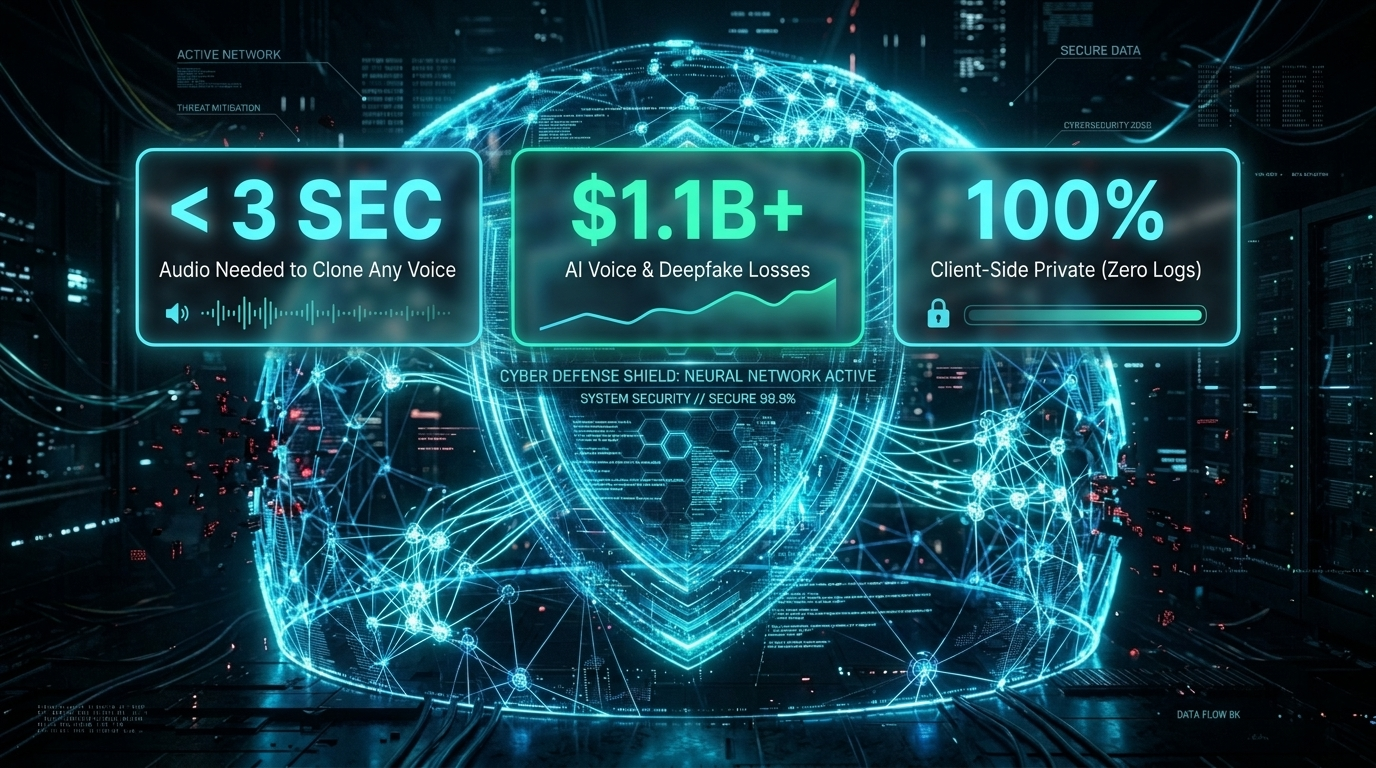
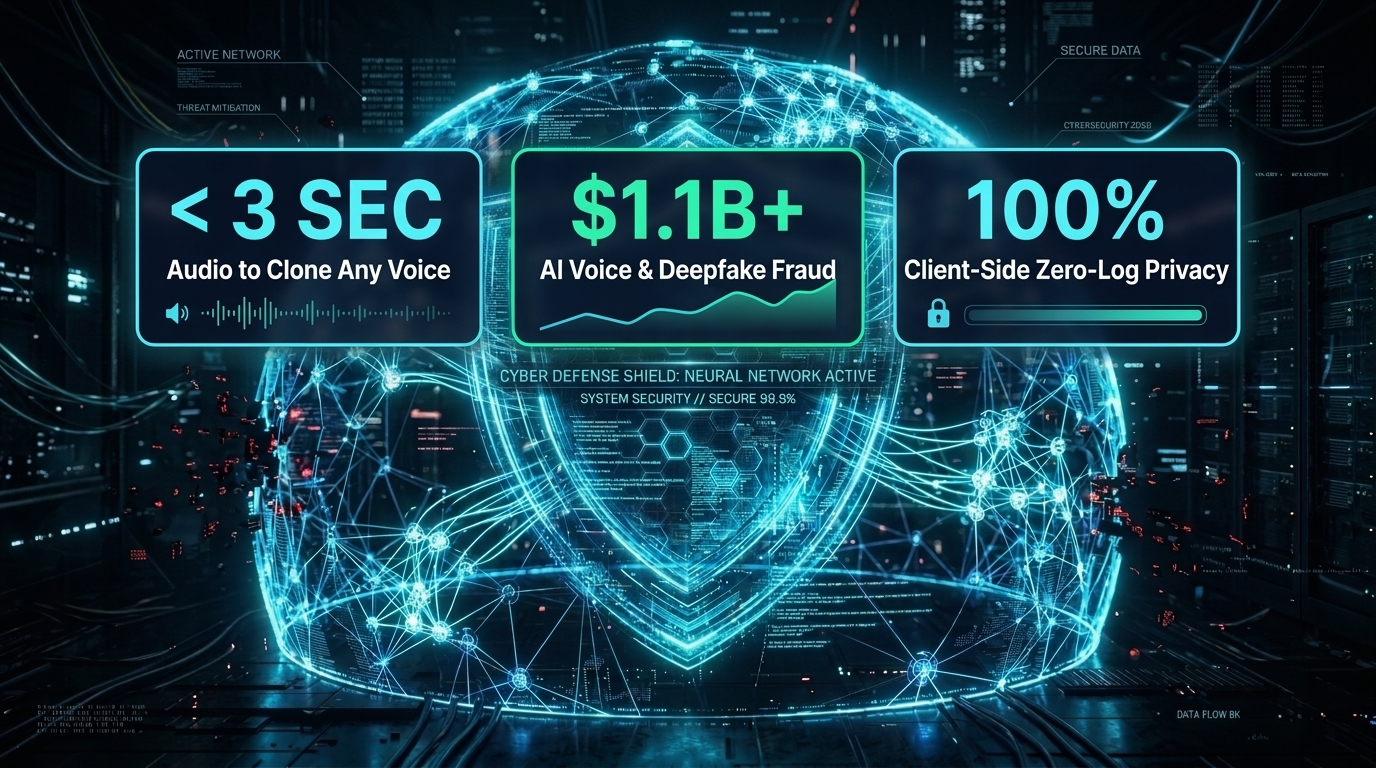
feat(hero): enlarge HUD subtitles for ultra-clear legibility and refine bottom status bar

diff --git a/index.html b/index.html
@@ -94,11 +94,11 @@
   <script async src="https://pagead2.googlesyndication.com/pagead/js/adsbygoogle.js?client=ca-pub-7565560894775775" crossorigin="anonymous"></script>
 
   <!-- Stylesheets -->
-  <link rel="stylesheet" href="css/styles.css?v=20261020-search2">
+  <link rel="stylesheet" href="css/styles.css?v=20261020-hud2">
   <link rel="icon" type="image/jpeg" href="assets/images/logo.jpg">
 
   <!-- Configuration & AdSense Loader -->
-  <script src="config.js?v=20261020-search2" defer></script>
+  <script src="config.js?v=20261020-hud2" defer></script>
 </head>
 <body>
 
@@ -184,7 +184,7 @@
 
         <div class="hero-visual-col">
           <div class="hero-visual-card">
-            <img src="assets/images/hero.jpg?v=20261020-hud" alt="ScamShield AI Live Telemetry HUD: Under 3 Seconds Voice Cloning Defense, $1.1B+ Deepfake Losses Mitigated, 100% Zero-Log Private Architecture" class="hero-img" width="640" height="360" decoding="async">
+            <img src="assets/images/hero.jpg?v=20261020-hud2" alt="ScamShield AI Live Telemetry HUD: Under 3 Seconds Voice Cloning Defense, $1.1B+ Deepfake Losses Mitigated, 100% Zero-Log Private Architecture" class="hero-img" width="640" height="360" decoding="async">
             <div class="hero-visual-overlay">
               <div class="overlay-status">
                 <span class="live-dot"></span>
@@ -608,7 +608,7 @@
   </footer>
 
   <!-- Scripts -->
-  <script src="js/threat-data.js?v=20261020-search2"></script>
-  <script src="js/app.js?v=20261020-search2"></script>
+  <script src="js/threat-data.js?v=20261020-hud2"></script>
+  <script src="js/app.js?v=20261020-hud2"></script>
 </body>
 </html>

diff --git a/css/styles.css b/css/styles.css
@@ -573,8 +573,10 @@ a:hover {
   bottom: 0;
   left: 0;
   right: 0;
-  padding: 1.25rem;
-  background: linear-gradient(180deg, transparent 0%, rgba(7, 11, 20, 0.95) 100%);
+  padding: 0.6rem 1rem;
+  background: rgba(7, 11, 20, 0.88);
+  backdrop-filter: blur(8px);
+  border-top: 1px solid rgba(0, 242, 254, 0.2);
   display: flex;
   align-items: center;
   justify-content: space-between;
@@ -583,10 +585,11 @@ a:hover {
 .overlay-status {
   display: flex;
   align-items: center;
-  gap: 0.5rem;
-  font-size: 0.85rem;
+  gap: 0.45rem;
+  font-size: 0.78rem;
   font-family: var(--font-mono);
   color: var(--color-success);
+  letter-spacing: 0.04em;
 }
 
 .live-dot {

diff --git a/guide-pig-butchering.html b/guide-pig-butchering.html
@@ -51,9 +51,9 @@
   <!-- Google AdSense Verification & Auto-Ads Script -->
   <script async src="https://pagead2.googlesyndication.com/pagead/js/adsbygoogle.js?client=ca-pub-7565560894775775" crossorigin="anonymous"></script>
   
-  <link rel="stylesheet" href="css/styles.css?v=20261020-search2">
+  <link rel="stylesheet" href="css/styles.css?v=20261020-hud2">
   <link rel="icon" type="image/jpeg" href="assets/images/logo.jpg">
-  <script src="config.js?v=20261020-search2" defer></script>
+  <script src="config.js?v=20261020-hud2" defer></script>
 
   <style>
     .article-container {

diff --git a/guide-voice-cloning.html b/guide-voice-cloning.html
@@ -51,9 +51,9 @@
   <!-- Google AdSense Verification & Auto-Ads Script -->
   <script async src="https://pagead2.googlesyndication.com/pagead/js/adsbygoogle.js?client=ca-pub-7565560894775775" crossorigin="anonymous"></script>
   
-  <link rel="stylesheet" href="css/styles.css?v=20261020-search2">
+  <link rel="stylesheet" href="css/styles.css?v=20261020-hud2">
   <link rel="icon" type="image/jpeg" href="assets/images/logo.jpg">
-  <script src="config.js?v=20261020-search2" defer></script>
+  <script src="config.js?v=20261020-hud2" defer></script>
 
   <style>
     .article-container {

diff --git a/privacy.html b/privacy.html
@@ -21,9 +21,9 @@
   <!-- Google AdSense Verification & Auto-Ads Script -->
   <script async src="https://pagead2.googlesyndication.com/pagead/js/adsbygoogle.js?client=ca-pub-7565560894775775" crossorigin="anonymous"></script>
 
-  <link rel="stylesheet" href="css/styles.css?v=20261020-search2">
+  <link rel="stylesheet" href="css/styles.css?v=20261020-hud2">
   <link rel="icon" type="image/jpeg" href="assets/images/logo.jpg">
-  <script src="config.js?v=20261020-search2" defer></script>
+  <script src="config.js?v=20261020-hud2" defer></script>
 
   <style>
     .legal-container {

diff --git a/terms.html b/terms.html
@@ -21,9 +21,9 @@
   <!-- Google AdSense Verification & Auto-Ads Script -->
   <script async src="https://pagead2.googlesyndication.com/pagead/js/adsbygoogle.js?client=ca-pub-7565560894775775" crossorigin="anonymous"></script>
 
-  <link rel="stylesheet" href="css/styles.css?v=20261020-search2">
+  <link rel="stylesheet" href="css/styles.css?v=20261020-hud2">
   <link rel="icon" type="image/jpeg" href="assets/images/logo.jpg">
-  <script src="config.js?v=20261020-search2" defer></script>
+  <script src="config.js?v=20261020-hud2" defer></script>
 
   <style>
     .legal-container {

diff --git a/about.html b/about.html
@@ -24,9 +24,9 @@
   <!-- Google AdSense Verification & Auto-Ads Script -->
   <script async src="https://pagead2.googlesyndication.com/pagead/js/adsbygoogle.js?client=ca-pub-7565560894775775" crossorigin="anonymous"></script>
 
-  <link rel="stylesheet" href="css/styles.css?v=20261020-search2">
+  <link rel="stylesheet" href="css/styles.css?v=20261020-hud2">
   <link rel="icon" type="image/jpeg" href="assets/images/logo.jpg">
-  <script src="config.js?v=20261020-search2" defer></script>
+  <script src="config.js?v=20261020-hud2" defer></script>
 
   <style>
     .page-container {
